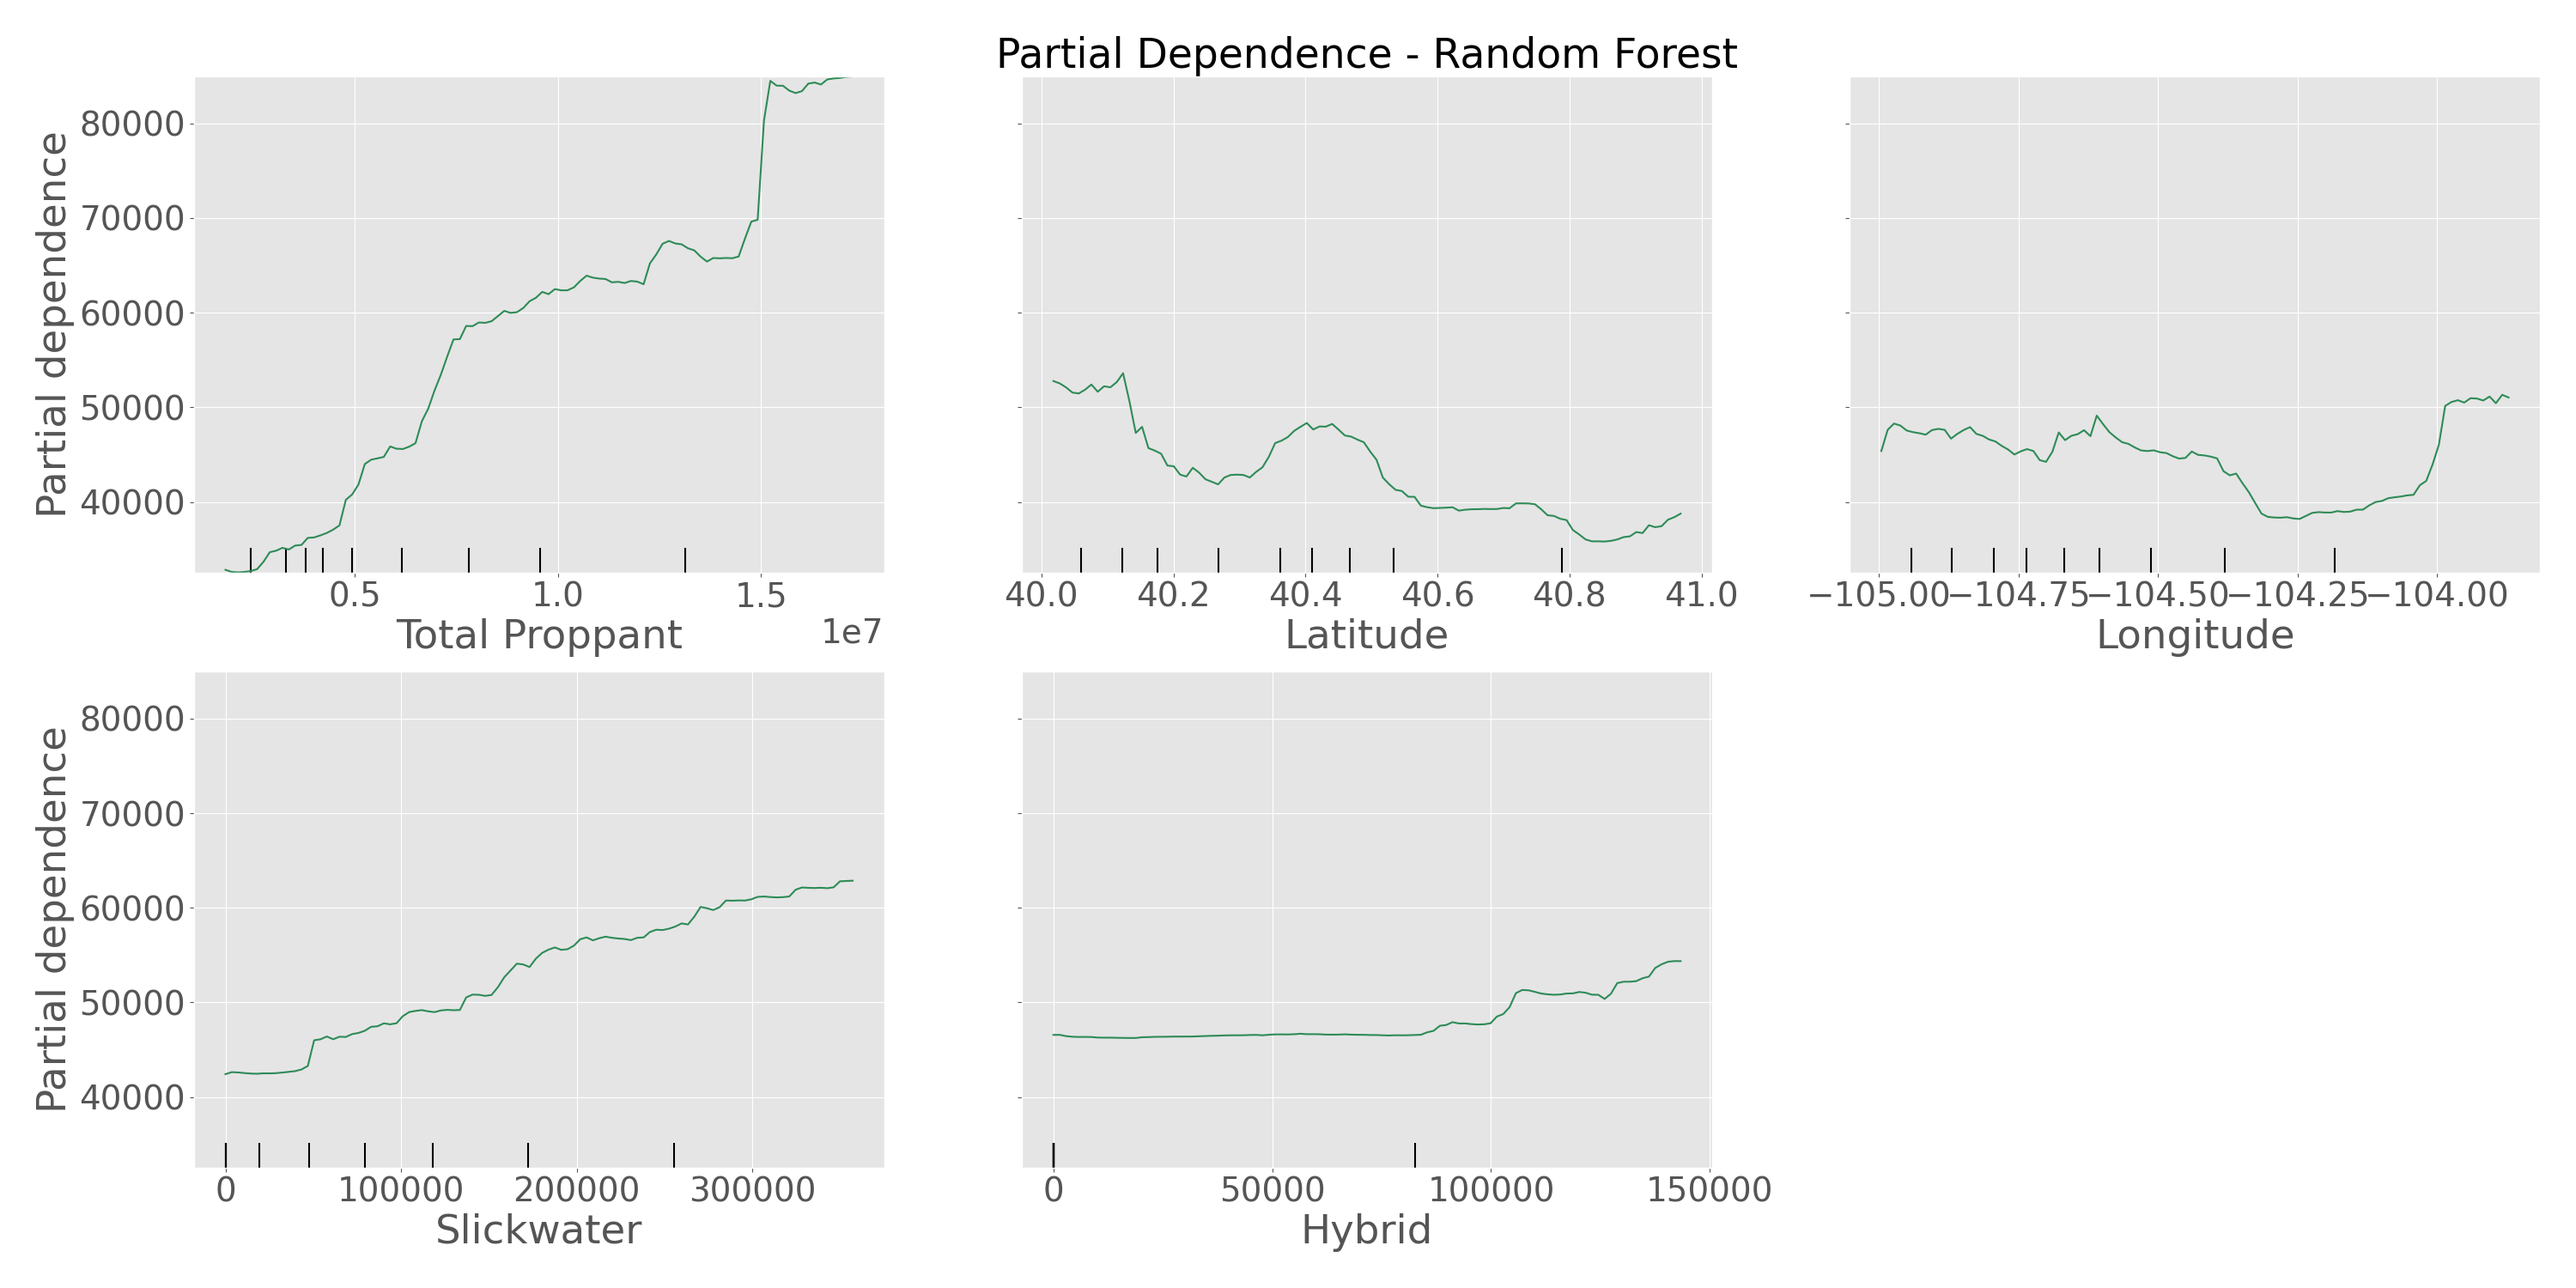
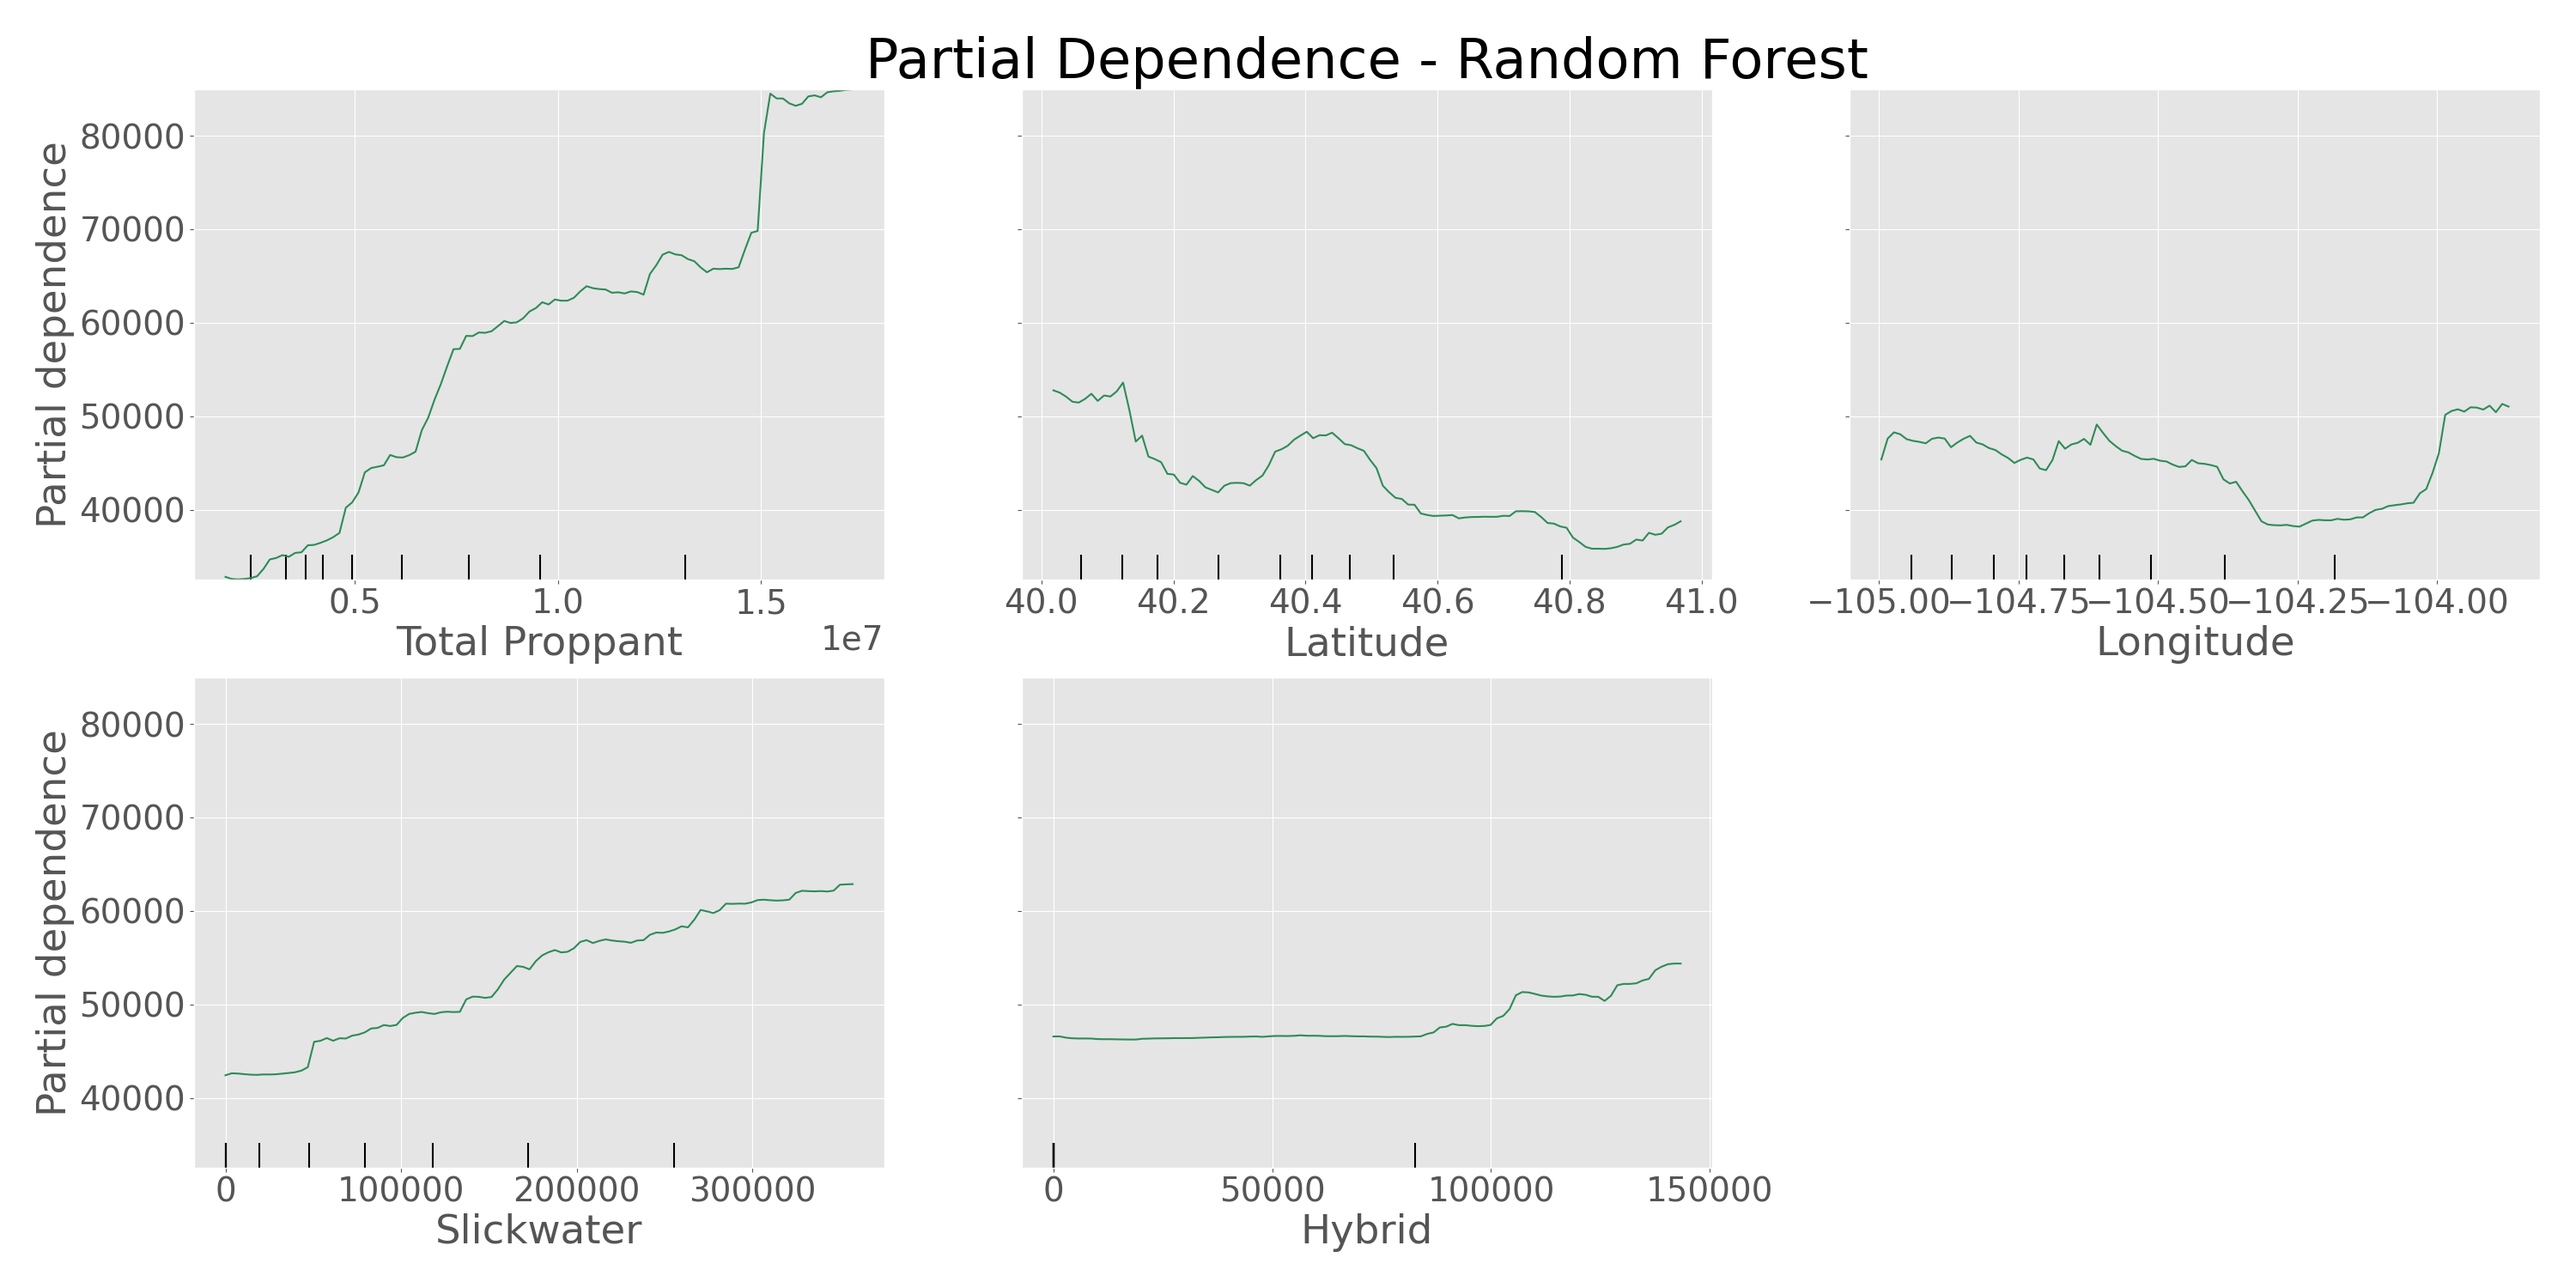
font size

diff --git a/src/random_forest_analysis.py b/src/random_forest_analysis.py
@@ -60,6 +60,6 @@ if __name__ == '__main__':
                             features[:number_features], 
                             line_kw={"c": "seagreen"},
                             ax=ax)
-    ax.set_title("Partial Dependence - Random Forest", fontsize=34)
+    ax.set_title("Partial Dependence - Random Forest", fontsize=46)
     fig.tight_layout()
     plt.savefig('../images/partial_dependance_rf.png')
